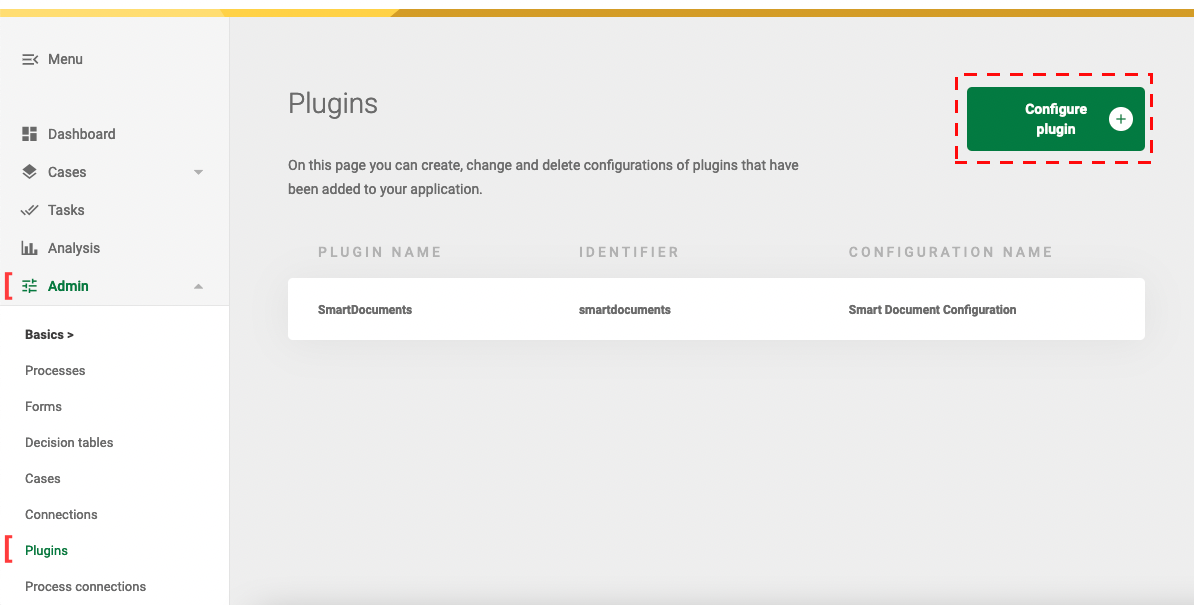
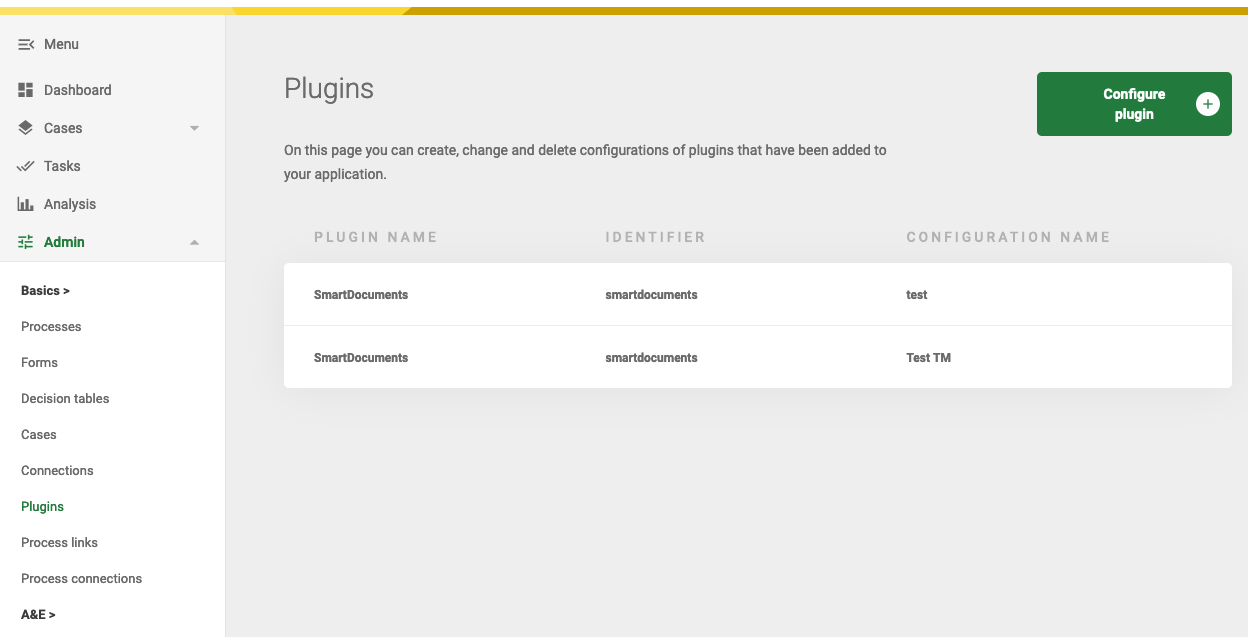
Release notes 9.16.0 (#8)
* Added 9.16.0 / 5.4.0 release notes for the frontend

* updated plugin images

* added plugin feature to the release notes

* input sanitization

* streamlined dependencies

* Release notes: smart documents + Bugfix Slow form association retrieval

* added more release notes and a short section on smartdocuments

* typo

diff --git a/release-notes/major9/09.16.0/valtimo-backend-libraries.md b/release-notes/major9/09.16.0/valtimo-backend-libraries.md
@@ -6,60 +6,47 @@ The following features were added:
 
 * **Camunda webapps**
 
-  The camunda webapps, including the cockpit, were made available. For existing valtimo projects additional 
-  infrastructure configuration might be required to grant access to the `/camunda/app` path. See 
+  The Camunda webapps, including the cockpit, were made available. For existing Valtimo projects additional
+  infrastructure configuration might be required to grant access to the `/camunda/app` path. See
   [this page](/valtimo-implementation/modules/camunda-webapps.md) for more information.
 
-* **New feature2**
+* **Plugins**
 
-  Description of the new feature goes here.
-  Also link to the page that expains the feature in greater detail.
+  Plugins are extensions on the Valtimo platform. These are often connections to external
+  services, such as transactional email and generating documents. Some plugins are provided
+  by the platform, but developers can create their own plugins as well. Plugins can be
+  configured without writing code, and can be used during BPMN processes. See
+  [this page](/introduction/modules/plugin-introduction.md) for more information.
 
+* **SmartDocuments plugin**
+
+  The SmartDocuments plugin has been added. This plugin connects to a SmartDocuments service to generate documents
+  based on a template and placeholders. See [this page](/introduction/modules/modules.md)
 
 ## Bugfixes
 
 The following bugs were fixed:
 
-* **Bug1**
+* **Input sanitization for pre-filled fields inside of forms**
 
-  Description of what the issue was.
+  When a form definition is pre-filled, the pre-filled fields were prone to HTML injection. These fields are now
+  sanitized when the fields are pre-filled.
 
-* **Bug2**
+* **Slow form association retrieval**
 
-  Description of what the issue was.
+  Form associations are retrieved on several locations within the application. For example, when opening a task a form
+  is retrieved. Retrieving this form becomes slow when multiple forms are associated to a single process. To solve
+  this issue, form associations are no longer stored as JSON in the database. Form associations are now stored in a new
+  table with proper indexing and without JSON columns.
 
 ## Breaking changes
 
-The following breaking changes were introduced:
-
-* **Breaking change1**
-
-* **Breaking change2**
-
-Instructions on how to migrate to this version of Valtimo can be found [here](migration.md).
+No breaking changes.
 
 ## Deprecations
 
-The following was deprecated:
-
-* **Deprecation1**
-
-  X was deprecated and is replaced with Y.
-
-* **Deprecation2**
-
-  X was deprecated and is replaced with Y.
-
-Instructions on how to migrate to this version of Valtimo can be found [here](migration.md).
+No deprecations.
 
 ## Known issues
 
-This version has the following known issues:
-
-* **Issue1**
-  * Discovered in version x.x.x
-  * Describe what can be done to work around the issue
-
-* **Issue2**
-  * Discovered in version x.x.x
-  * Describe what can be done to work around the issue
+No known issues.

diff --git a/release-notes/major9/09.16.0/valtimo-frontend-libraries.md b/release-notes/major9/09.16.0/valtimo-frontend-libraries.md
@@ -1,63 +1,30 @@
-# Frontend libraries
+# Frontend libraries 5.4.0
 
 ## New Features
 
 The following features were added:
 
-* **New feature1**
+* **Updated <form.io> dependency**
 
-  Description of the new feature goes here.
-  Also link to the page that expains the feature in greater detail.
-
-* **New feature2**
-
-  Description of the new feature goes here.
-  Also link to the page that expains the feature in greater detail.
-
+  The dependency angular-formio version 4.11.5 has been updated to @formio/angular version 5.2.2
 
 ## Bugfixes
 
 The following bugs were fixed:
 
-* **Bug1**
+* **Streamlined dependencies**
 
-  Description of what the issue was.
-
-* **Bug2**
-
-  Description of what the issue was.
+  A number of errors and warnings would occur when installing package dependencies. These have been
+  resolved.
 
 ## Breaking changes
 
-The following breaking changes were introduced:
-
-* **Breaking change1**
-
-* **Breaking change2**
-
-Instructions on how to migrate to this version of Valtimo can be found [here](migration.md).
+No known breaking changes.
 
 ## Deprecations
 
-The following was deprecated:
-
-* **Deprecation1**
-
-  X was deprecated and is replaced with Y.
-* **Deprecation2**
-
-  X was deprecated and is replaced with Y.
-
-Instructions on how to migrate to this version of Valtimo can be found [here](migration.md).
+No deprecations.
 
 ## Known issues
 
-This version has the following known issues:
-
-* **Issue1**
-    * Discovered in version x.x.x
-    * Describe what can be done to work around the issue
-
-* **Issue2**
-    * Discovered in version x.x.x
-    * Describe what can be done to work around the issue
+No known issues.

diff --git a/valtimo-implementation/modules/smartdocuments.md b/valtimo-implementation/modules/smartdocuments.md
@@ -1,0 +1,28 @@
+# SmartDocuments
+
+## Dependencies
+
+In order to use SmartDocuments, the SmartDocuments module needs to be added as a dependency. The
+following can be added to your project, depending on whether Maven or Gradle is used:
+
+### Backend
+
+#### Maven dependency:
+```xml
+<dependencies>
+    <dependency>
+        <groupId>com.ritense.valtimo</groupId>
+        <artifactId>smartdocuments</artifactId>
+        <version>9.15.0.RELEASE</version>
+    </dependency>
+</dependencies>
+```
+
+#### Gradle dependency:
+```json
+dependencies {
+  implementation "com.ritense.valtimo:smartdocuments:9.15.0.RELEASE"
+}
+```
+
+

diff --git a/introduction/modules/modules.md b/introduction/modules/modules.md
@@ -1,5 +1,12 @@
 # Available modules
 
+## Document generation
+
+### SmartDocuments
+
+SmartDocuments itself is an external service that deals with generating documents based on templates and placeholders.
+This module offers a plugin which can connect to this service to generate documents.
+
 ## Plugins
 
 Plugins are extensions on the Valtimo platform. These are often connections to external

diff --git a/SUMMARY.md b/SUMMARY.md
@@ -25,4 +25,3 @@
     * [9.16.0/5.3.0](release-notes/major9/09.16.0/index.md)
       * [Valtimo backend libraries (9.16.0)](release-notes/major9/09.16.0/valtimo-backend-libraries.md)
       * [Valtimo frontend libraries (5.3.0)](release-notes/major9/09.16.0/valtimo-frontend-libraries.md)
-      * [Migration](release-notes/major9/09.16.0/migration.md)

diff --git a/extending-valtimo/plugin/custom-plugin-definition.md b/extending-valtimo/plugin/custom-plugin-definition.md
@@ -5,7 +5,7 @@
 ### Creating a plugin class
 
 A plugin can be created with the `@Plugin` annotation on the class. All classes with the plugin annotation are
-detected when the application is started. The plugin class shouldn't be a Spring bean.
+detected when the application is started. The plugin class should not be a Spring bean.
 
 For example:
 

diff --git a/release-notes/major9/09.16.0/index.md b/release-notes/major9/09.16.0/index.md
@@ -2,4 +2,3 @@
 
 * [Valtimo backend libraries 9.16.0](valtimo-backend-libraries.md)
 * [Valtimo frontend libraries 5.3.0](valtimo-frontend-libraries.md)
-* [Migration](migration.md)
